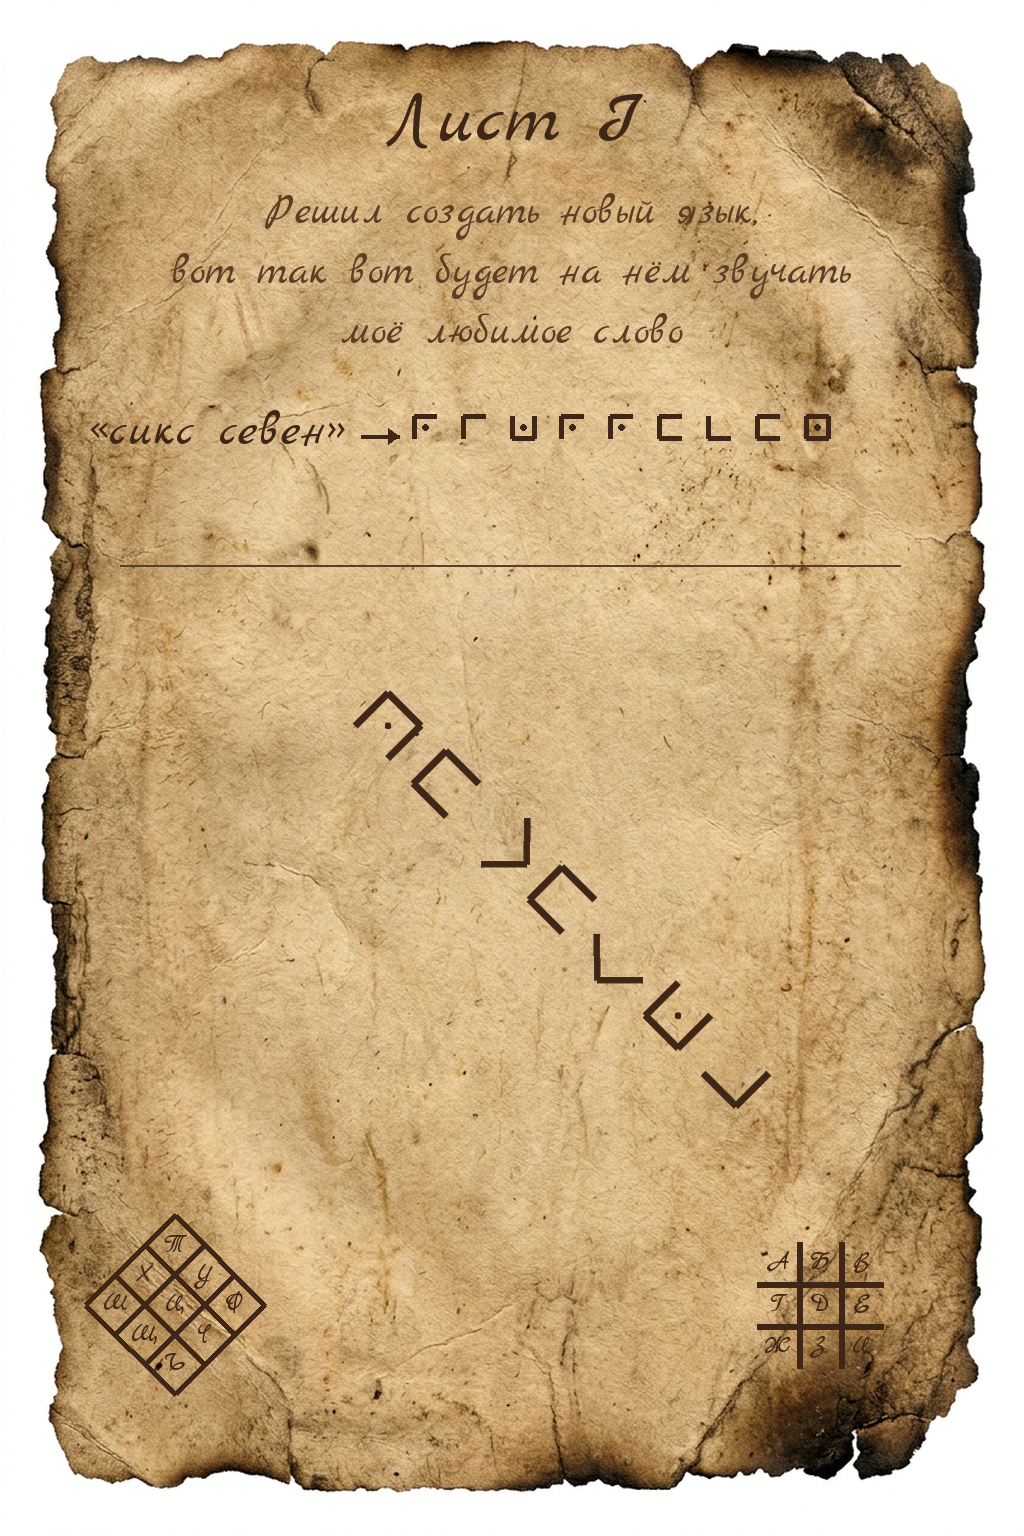
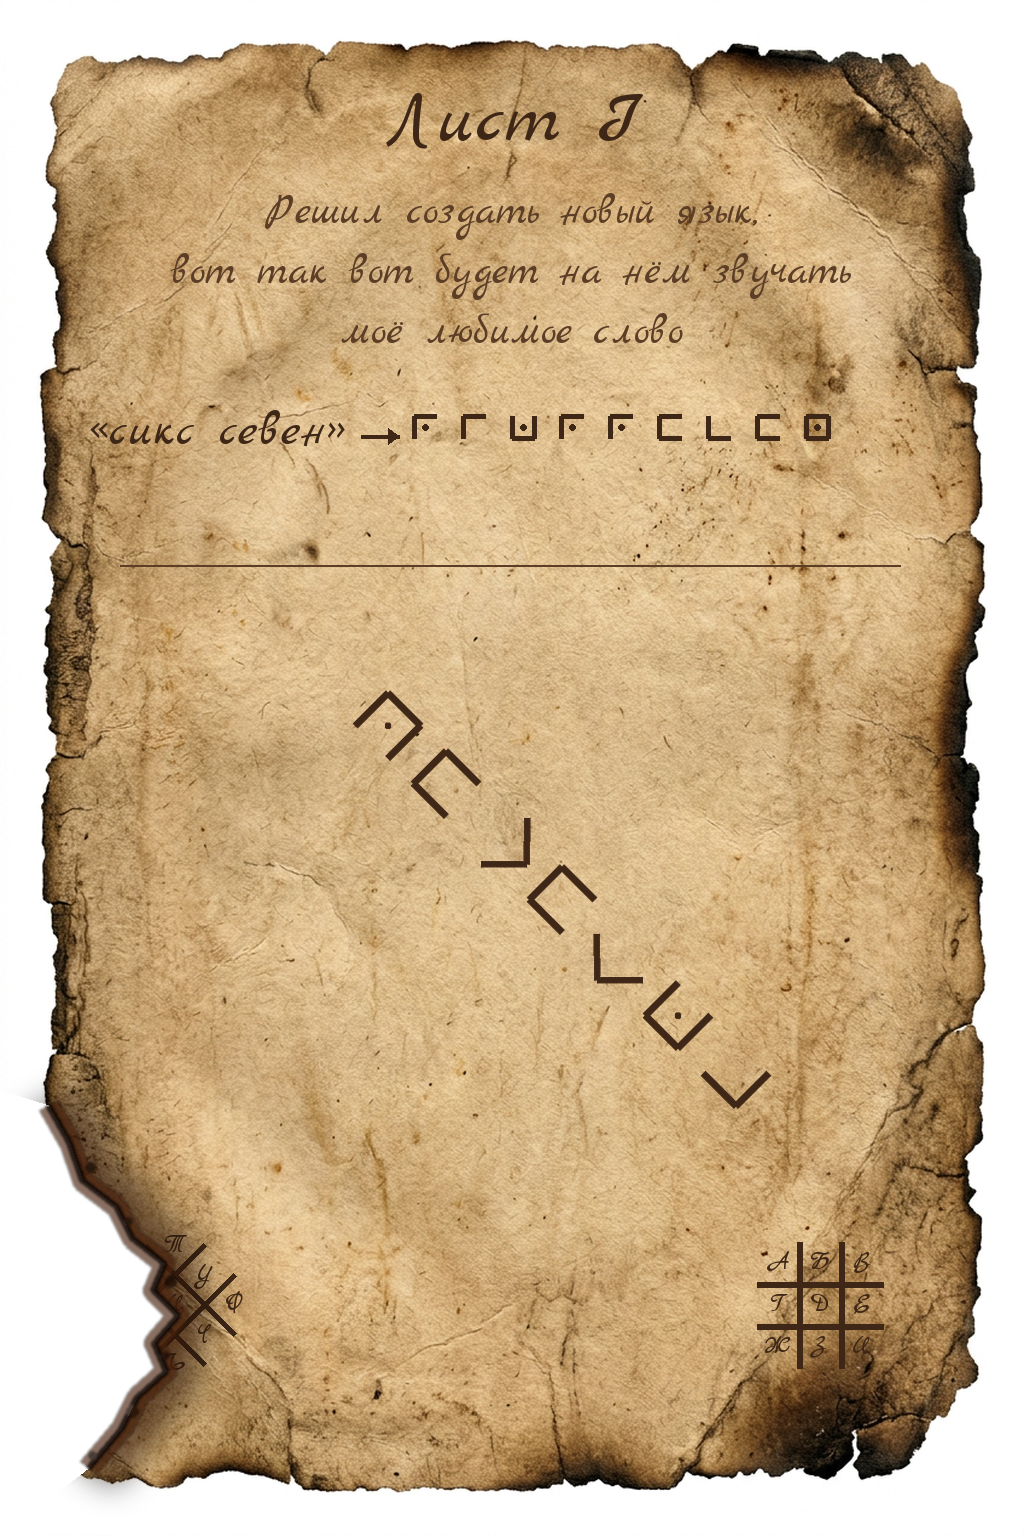
Burn away part of the N3 diamond grid

Changed region(s): [[0.0312, 0.6875, 0.25, 1.0]]

diff --git a/bot/tools/make_quest_assets.py b/bot/tools/make_quest_assets.py
@@ -8,7 +8,7 @@ from pathlib import Path
 
 import numpy as np
 import piexif
-from PIL import Image, ImageDraw, ImageFont
+from PIL import Image, ImageDraw, ImageFilter, ImageFont
 
 try:
     from .quest_crypto import (
@@ -241,8 +241,8 @@ def draw_pigpen_diamond_key(
             cy + (dx + dy) * root_half,
         )
 
-    for index in range(4):
-        offset = -half + index * cell
+    # Только внутренние линии: ромб остаётся открытой сеткой без обводки.
+    for offset in (-cell / 2, cell / 2):
         vertical = (*rotate_point(cx + offset, cy - half), *rotate_point(cx + offset, cy + half))
         horizontal = (*rotate_point(cx - half, cy + offset), *rotate_point(cx + half, cy + offset))
         draw.line(vertical, fill=color, width=width)
@@ -291,6 +291,45 @@ def draw_pigpen_square_key(
             font=letter_font,
             anchor="mm",
         )
+
+
+def burn_lower_left_corner(page: Image.Image) -> Image.Image:
+    """Выжигает неровный кусок страницы, скрывая левую половину ромба."""
+    edge = [
+        (48, 1105), (69, 1142), (82, 1180), (116, 1206),
+        (132, 1238), (164, 1263), (153, 1290), (178, 1315),
+        (154, 1343), (166, 1371), (137, 1397), (120, 1430),
+        (88, 1468),
+    ]
+
+    # Мягкий ореол копоти остаётся на сохранившейся бумаге.
+    rgba = page.convert("RGBA")
+    soot = Image.new("RGBA", rgba.size, (0, 0, 0, 0))
+    soot_draw = ImageDraw.Draw(soot)
+    soot_draw.line(edge, fill=(46, 19, 6, 170), width=62, joint="curve")
+    soot = soot.filter(ImageFilter.GaussianBlur(15))
+    rgba = Image.alpha_composite(rgba, soot)
+
+    burned = ImageDraw.Draw(rgba)
+    cutout = [(0, 1090), *edge, (0, 1536)]
+    burned.polygon(cutout, fill=(255, 255, 255, 255))
+
+    # Тонкая угольная кромка поверх размытой копоти — без нарисованной
+    # «коричневой обводки», чтобы прогар сливался с фотографией листа.
+    char = Image.new("RGBA", rgba.size, (0, 0, 0, 0))
+    char_draw = ImageDraw.Draw(char)
+    char_draw.line(edge, fill=(73, 33, 12, 165), width=22, joint="curve")
+    char_draw.line(edge, fill=(19, 9, 4, 235), width=7, joint="curve")
+    for x, y, radius in (
+        (90, 1167, 5), (128, 1221, 4), (170, 1281, 6),
+        (165, 1355, 4), (132, 1411, 6), (92, 1455, 4),
+    ):
+        char_draw.ellipse(
+            (x - radius, y - radius, x + radius, y + radius),
+            fill=(28, 13, 5, 205),
+        )
+    char = char.filter(ImageFilter.GaussianBlur(1.2))
+    return Image.alpha_composite(rgba, char).convert("RGB")
 
 
 def _n1_still() -> Image.Image:
@@ -661,6 +700,7 @@ def make_n3():
     # Слева — ромбическая третья девятка, справа — прямая первая девятка.
     draw_pigpen_diamond_key(draw, (175, 1305), cell=42, color=ink, width=6)
     draw_pigpen_square_key(draw, (820, 1305), cell=42, color=ink, width=6)
+    page1 = burn_lower_left_corner(page1)
     page1.save(OUT / "artifact_3a.png", optimize=True)
 
     # Лист II: никаких названий метода — только след из трёх линий.

diff --git a/bot/test_n3_cards.py b/bot/test_n3_cards.py
@@ -33,9 +33,13 @@ class N3CardStyleTests(unittest.TestCase):
         self.assertIn('letters="ТУФХЦЧШЩЪ"', source)
         self.assertIn("draw_pigpen_square_key", n3)
         self.assertIn('letters="АБВГДЕЖЗИ"', source)
-        square_key = source.split("def draw_pigpen_square_key", 1)[1].split("def _n1_still", 1)[0]
+        diamond_key = source.split("def draw_pigpen_diamond_key", 1)[1].split("def draw_pigpen_square_key", 1)[0]
+        square_key = source.split("def draw_pigpen_square_key", 1)[1].split("def burn_lower_left_corner", 1)[0]
+        self.assertIn("for offset in (-cell / 2, cell / 2):", diamond_key)
         self.assertIn("for offset in (-cell / 2, cell / 2):", square_key)
+        self.assertNotIn("range(4)", diamond_key)
         self.assertNotIn("range(4)", square_key)
+        self.assertIn("burn_lower_left_corner(page1)", n3)
         self.assertNotIn("А теперь — загадка", n3)
         self.assertIn("parchment_page()", n3)
         self.assertIn("script_font(", n3)

diff --git a/bot/docs/QUEST_WALKTHROUGH.md b/bot/docs/QUEST_WALKTHROUGH.md
@@ -114,8 +114,9 @@ LSB и цветовые каналы **нет** (это уже вход из SIG
 
 Лист I, масонский / pigpen. Автор объявляет о новом языке и показывает, как
 на нём записывается **СИКССЕВЕН**. Снизу показаны квадратная решётка с буквами
-**А–И** и ромбическая с буквами **Т–Ъ**. Обе имеют 3×3 позиции, сначала без точки,
-затем с точкой. Послание из семи знаков нарисовано единой строкой и целиком
+**А–И** и частично сгоревшая ромбическая с буквами **Т–Ъ**. Обе — открытые сетки
+3×3 без внешней обводки; сначала используются знаки без точки, затем с точкой.
+Послание из семи знаков нарисовано единой строкой и целиком
 повёрнуто на 45°.
 В бота: **РЕШЕТКА**
 
